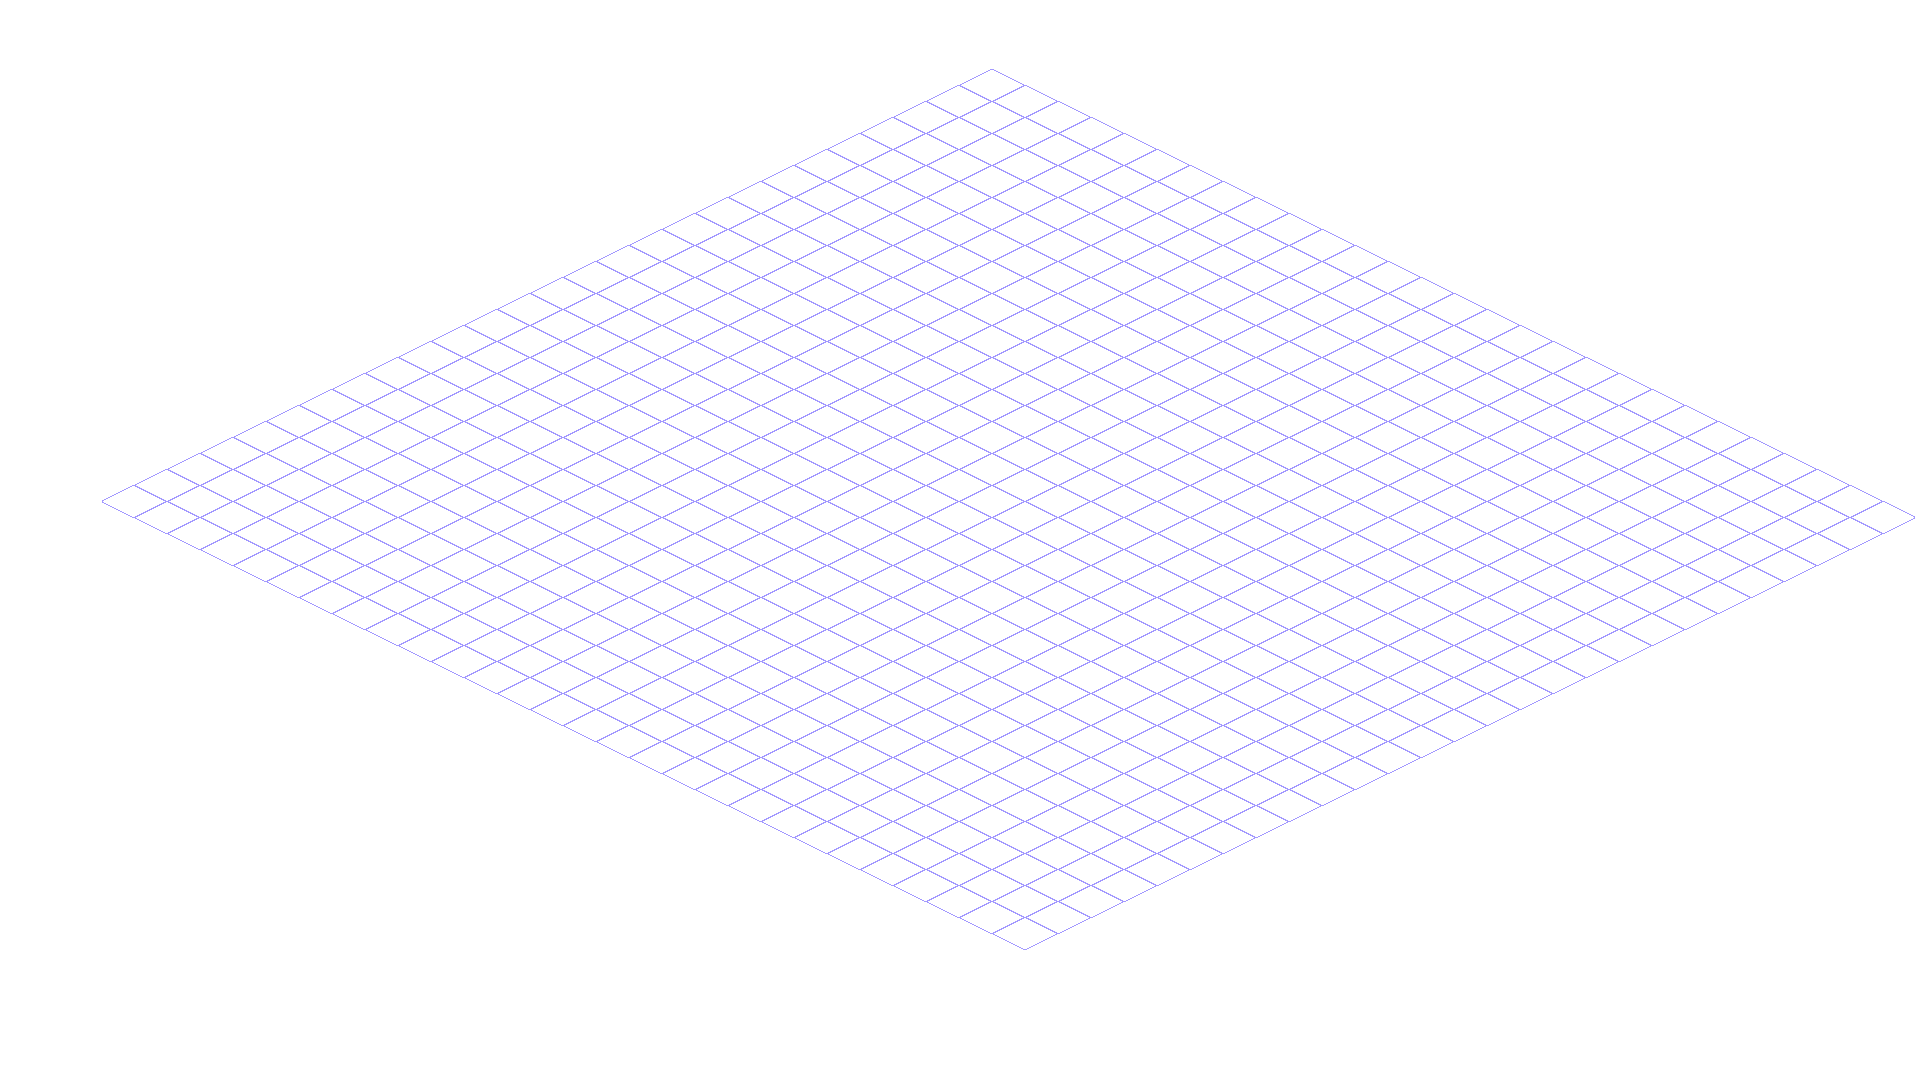
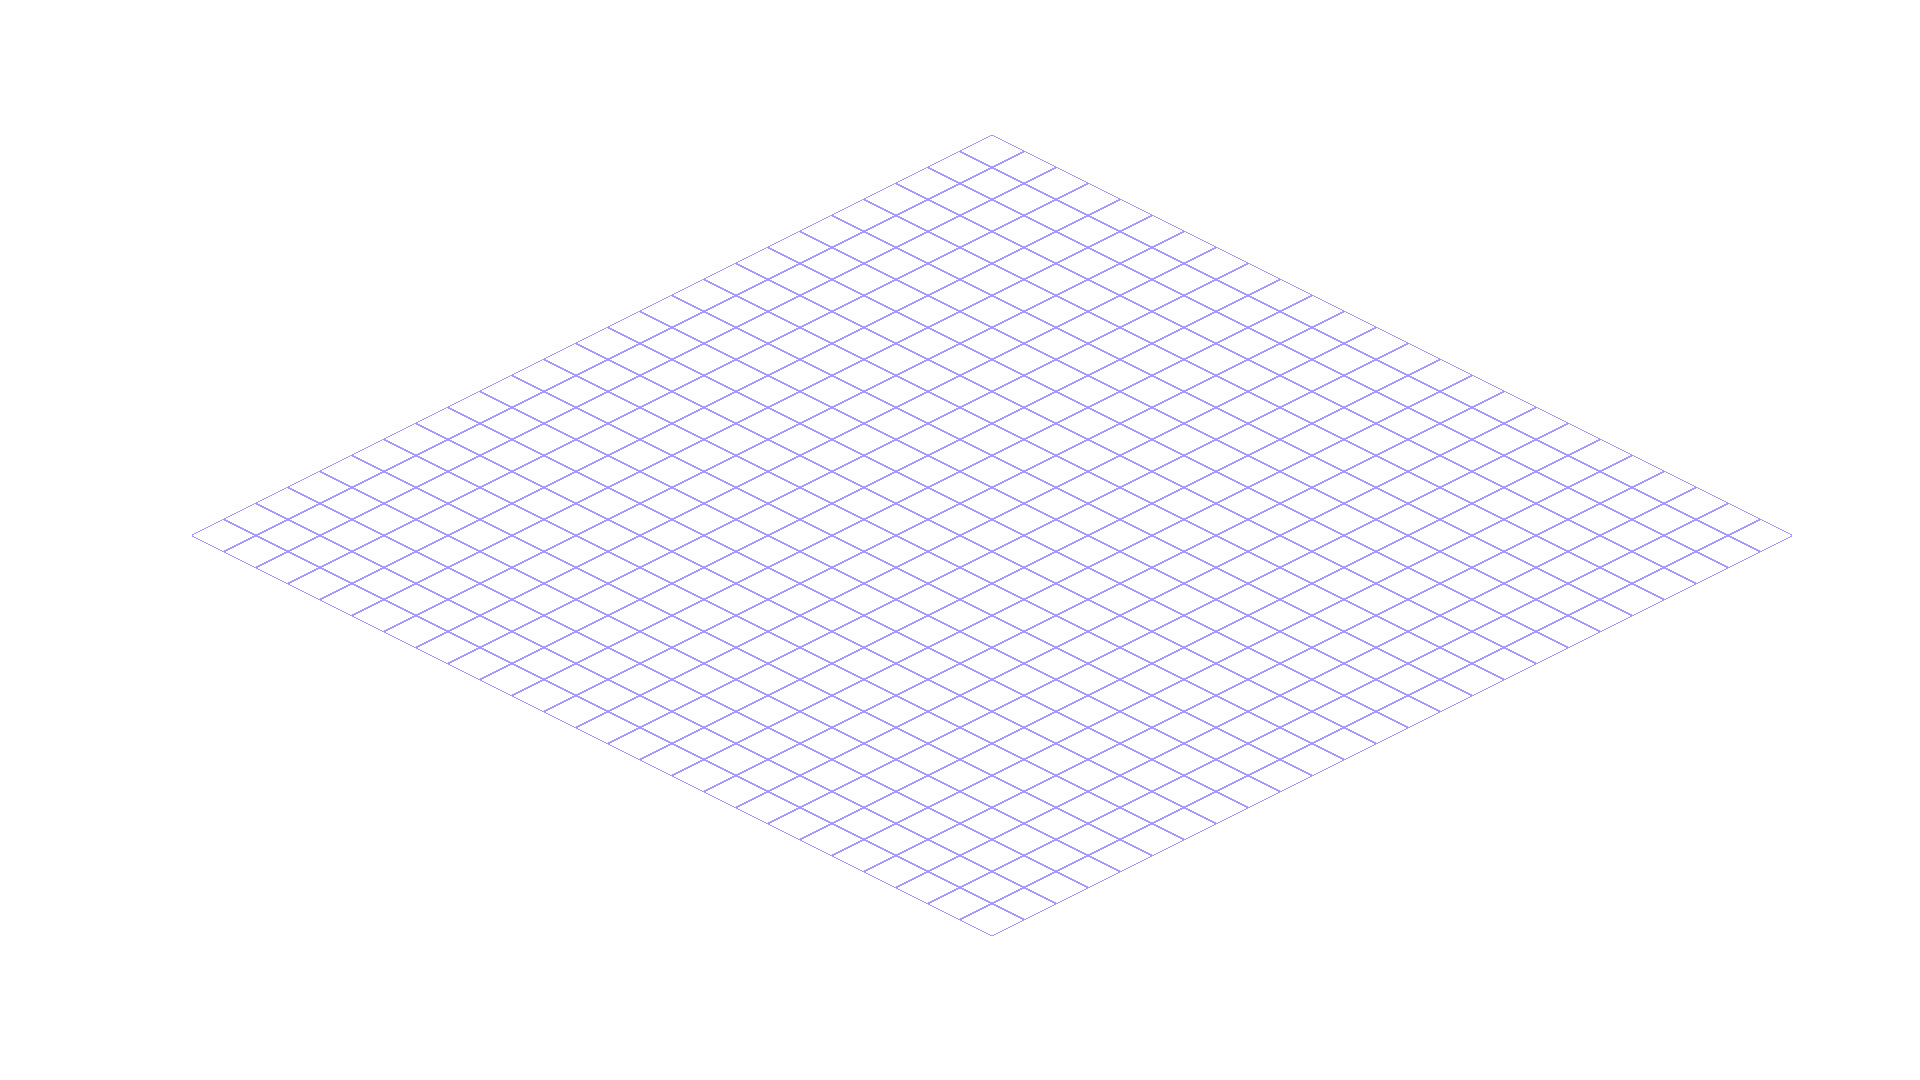
grid added

Changed region(s): [[0.0938, 0.1222, 0.9375, 0.8556]]

diff --git a/Clowns' F8/Scene.cpp b/Clowns' F8/Scene.cpp
@@ -145,10 +145,10 @@ bool Scene::Update(float _dt)
 
 		if (new_game_button->has_been_clicked)
 		{
-			current_scene = NONE;
+			current_scene = FIRST_BATTLE;
 			DeleteMusic();
 			DeleteMenu();
-			App->transition_manager->CreateFadeTransition(0.2F, true, FIRST_BATTLE, Scene_1_color);
+			//App->transition_manager->CreateFadeTransition(0.2F, true, FIRST_BATTLE, Scene_1_color);
 			
 		}
 		else if (load_game_button->has_been_clicked)
@@ -321,7 +321,7 @@ bool Scene::Update(float _dt)
 			if (!win_lose_label_created)
 			{
 				App->render->Blit(map_level_1, 0 - (screen_width / 2), 0 - (screen_height / 8));
-				//App->render->Blit(grid_level_1, 0 - (screen_width / 2), 0 - (screen_height / 8));
+				App->render->Blit(grid_level_1, 0 - (screen_width / 2), 0 - (screen_height / 8));
 				App->map->Draw();
 			}
 		}	
